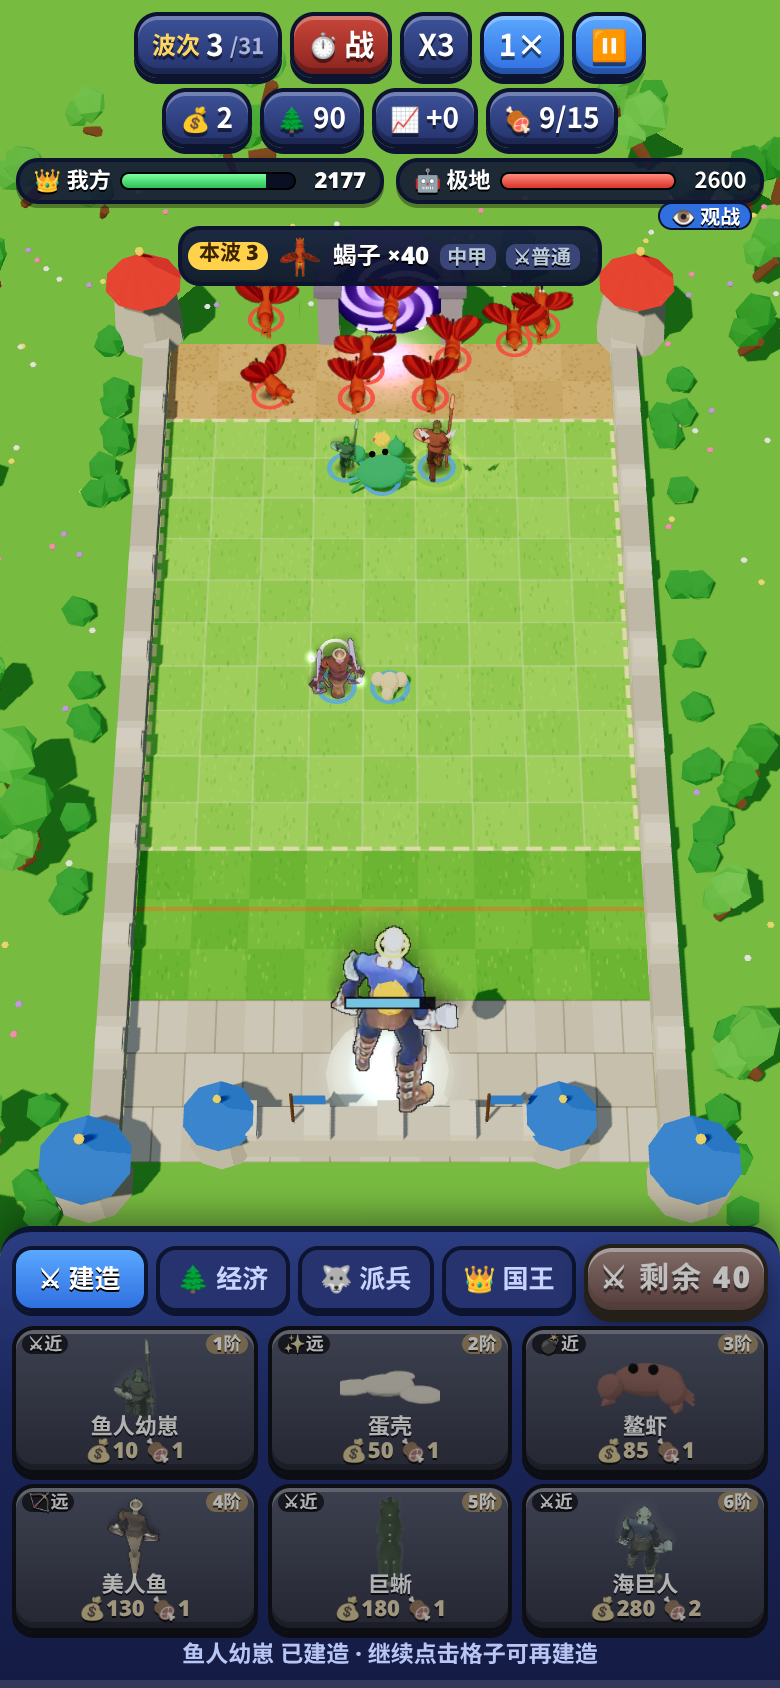
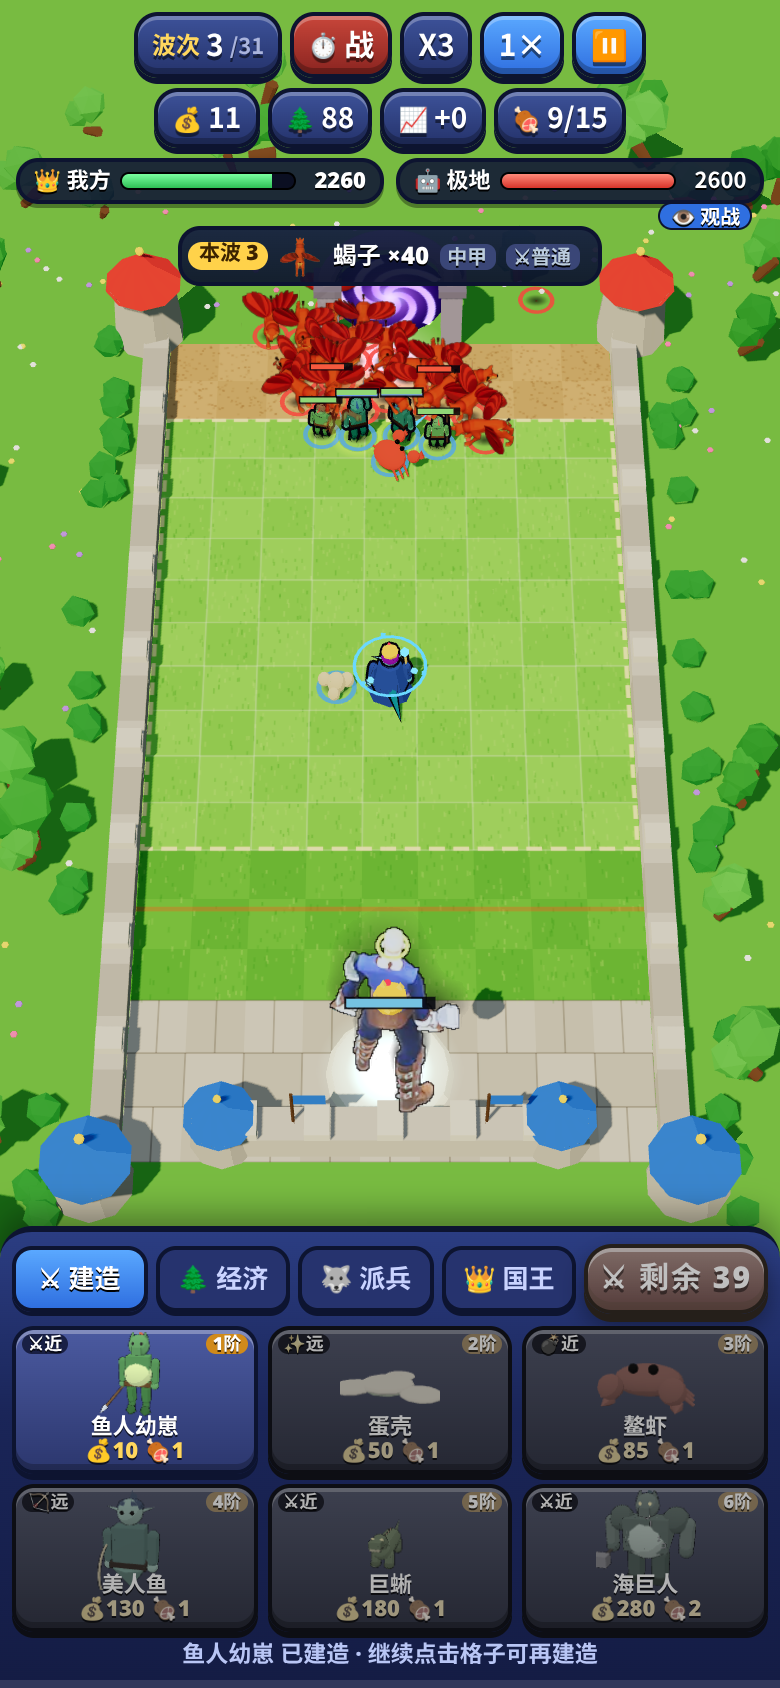
Model remake: Marine (murlocs, wind serpent, naga, komodo, sea giant; egg sack/lobstrokks/hydra keep matching models)

diff --git a/toonrecipes.js b/toonrecipes.js
@@ -113,3 +113,14 @@ R('h01Z',{k:1.1,h:1.08,bw:1.4,torso:'brute',head:'beast',headC:0x4a2a5a,skin:0x5
 R('h020',{k:1.25,ghost:true,h:1.12,bw:1.45,torso:'brute',head:'beast',headC:0x8a4ab8,skin:0x9a5ac8,torsoC:0x6a3a9a,legC:0x5a2a8a,sleeve:0x9a5ac8,handC:0x8a4ab8,legs:'digit',arms:'claw',eye:0xffaaff,atk:'claw',extras:['tentacles:0xb06ad8','spikes:0xff8aff','orbit:0xff8aff']});
 R('h021',{k:1.15,h:1.12,torso:'robe',head:'default',helm:'horns',hornC:0x1a1a1a,skin:0xb06ad8,torsoC:0x3a1a4a,legC:0x3a1a4a,eye:0xff4aff,beard:0x2a1a2a,weapon:'staff',off:'book',bookC:0x2a1a2a,wood:0x2a1a2a,glow:0xd06aff,pads:true,padC:0x5a3a6a,spikes:true,atk:'cast',extras:['tail:0xb06ad8','orbit:0xd06aff','aura:0xb06aff']});
 R('h022',{k:1.15,h:1.2,bw:1.45,torso:'brute',head:'beast',headC:0xb02a1a,helm:'horns',hornC:0x2a1a1a,skin:0xc83a2a,torsoC:0x3a2a2a,legC:0x2a1a1a,sleeve:0xc83a2a,handC:0xa82a1a,legs:'hoof',eye:0xffe04a,metal:0x3a3a3a,weapon:'greatsword',wMetal:0xff6a2a,glow:0xff4a2a,pads:true,padC:0x2a2a2a,spikes:true,atk:'swing',extras:['bwings:0x5a1a1a','tail:0xc83a2a','flamebody','aura:0xff3a2a']});
+// ===================== 海洋 Marine：鱼人、风蛇、娜迦、巨蜥、海巨人（蛋壳/龙虾保留已相符的程序化模型，九头蛇保留相符精灵） =====================
+R('h07J',{k:0.78,h:0.85,bw:1.0,torso:'default',head:'beast',headC:0x6aa86a,skin:0x6aa86a,torsoC:0x5a985a,legC:0x4a884a,bootC:0x3a6a3a,beltC:0x6a4a2a,legs:'digit',eye:0x2a2a2a,weapon:'spear',wood:0x7a5a3a,atk:'thrust',extras:['crest:0xd86a4a','belly:0xd8e8a8']});
+R('h07L',{k:0.92,h:0.95,bw:1.15,torso:'default',head:'beast',headC:0x6a8ab8,skin:0x6a8ab8,torsoC:0x5a7aa8,legC:0x4a6a98,bootC:0x3a4a6a,beltC:0x6a4a2a,legs:'digit',arms:'claw',eye:0xffe04a,atk:'claw',extras:['crest:0xffa02a','belly:0xc8d8f0','spikes:0xffa02a']});
+R('h07N',{k:0.9,h:0.95,torso:'default',head:'beast',headC:0x4a9a8a,skin:0x4a9a8a,torsoC:0x3a7a6a,legC:0x2a6a5a,bootC:0x1a4a3a,beltC:0x3a2a1a,legs:'digit',eye:0xff4a2a,weapon:'blade',off:'blade',wMetal:0xd8e8f0,atk:'swing',extras:['crest:0x2a5a8a','belly:0xb8e0c8']});
+R('h07M',{k:0.98,h:1.0,bw:1.1,torso:'default',head:'beast',headC:0xb84a3a,skin:0xb84a3a,torsoC:0x8a3a2a,legC:0x6a2a1a,bootC:0x4a1a1a,beltC:0x2a1a1a,legs:'digit',eye:0x8aff4a,weapon:'trident',wMetal:0xc8c8c8,glow:0x8aff4a,atk:'thrust',extras:['crest:0x3a1a1a','belly:0xe8b0a0','aura:0x8aff4a']});
+R('h07P',{k:0.95,plan:'flyer',skin:0x3a9a8a,skin2:0xd8e8a0,wingC:0x7ad8c8,wingM:'w',eye:0xffe04a,crest:0xffd04a,neckLen:1.0,headS:0.9,tailLen:0.8,wingSpan:0.9,alt:0.5,atk:'shoot',extras:['spikes:0xffd04a']});
+R('h07S',{k:1.0,h:1.02,legs:'none',floatY:0.22,lowC:0x3aa88a,lowM:'n',torso:'default',head:'default',skin:0x6ac8a8,torsoC:0x2a8a7a,hair:0x2a5aa8,weapon:'bow',wood:0xd8b860,glow:0x8ae8ff,atk:'shoot',extras:['ears:0x6ac8a8','tail:0x3aa88a','crest:0x2a5aa8']});
+R('h07T',{k:1.12,h:1.08,legs:'none',floatY:0.22,lowC:0x2a8a9a,lowM:'n',torso:'robe',head:'default',helm:'crown',accent:0xffd04a,skin:0x5ab8c8,torsoC:0x3a5aa8,hair:0x8a2aa8,weapon:'staff',off:'orb',wood:0xd8b860,glow:0x8ae8ff,atk:'cast',extras:['ears:0x5ab8c8','tail:0x2a8a9a','orbit:0x8ae8ff','aura:0x6ad8ff']});
+R('h07U',{k:1.1,plan:'quad',skin:0x5a8a3a,skin2:0xc8b86a,headType:'lizard',eye:0xffe04a,legLen:0.2,bodyLen:0.75,bodyH:0.24,bw:1.2,tailLen:0.6,tailW:1.6,claws:true,spikes:true,spikeC:0xd87a3a,atk:'bite'});
+R('h07V',{k:1.18,h:1.12,bw:1.3,legs:'none',floatY:0.25,lowC:0x3a7a5a,lowM:'n',torso:'brute',head:'beast',headC:0x4a8a6a,skin:0x4a8a6a,torsoC:0x3a7a5a,sleeve:0x4a8a6a,handC:0x3a7a5a,metal:0xd8b860,eye:0xffe04a,weapon:'trident',wMetal:0xffd04a,pads:true,padC:0xd8b860,atk:'thrust',extras:['tail:0x3a7a5a','crest:0xd86a2a','plate:0xd8b860']});
+R('h07W',{k:1.15,h:1.2,bw:1.5,torso:'brute',head:'beast',headC:0x5a8a7a,skin:0x5a8a7a,torsoC:0x4a7a6a,legC:0x3a6a5a,sleeve:0x5a8a7a,handC:0x4a7a6a,bootC:0x2a4a3a,eye:0xffe04a,weapon:'hammer',wMetal:0x8a8a9a,wood:0x5a4a3a,atk:'slam',extras:['tusks','crest:0x2a6a8a','belly:0x9ac8b0','chains']});

diff --git a/index.html b/index.html
@@ -10,9 +10,9 @@
 <link rel="manifest" href="manifest.webmanifest">
 <link rel="icon" type="image/png" href="icons/favicon-32.png">
 <link rel="apple-touch-icon" href="icons/apple-touch-icon.png">
-<link rel="stylesheet" href="style.css?v=9">
-<link rel="stylesheet" href="td.css?v=9">
-<link rel="stylesheet" href="lt.css?v=9">
+<link rel="stylesheet" href="style.css?v=10">
+<link rel="stylesheet" href="td.css?v=10">
+<link rel="stylesheet" href="lt.css?v=10">
 </head>
 <body class="td lt">
 <canvas id="cv"></canvas>
@@ -75,8 +75,8 @@
 </div>
 <div id="showTitle" class="hidden"></div>
 <script src="audio.js?v=1"></script>
-<script src="lt_core.js?v=9"></script>
+<script src="lt_core.js?v=10"></script>
 <script type="importmap">{"imports":{"three":"./lib/three.module.min.js","three/addons/":"./lib/addons/"}}</script>
-<script type="module" src="lt.js?v=9"></script>
+<script type="module" src="lt.js?v=10"></script>
 </body>
 </html>

diff --git a/lt.js b/lt.js
@@ -3,8 +3,8 @@ import * as THREE from 'three';
 import {SPR_UNITS,SPR_K,SPR_V} from './sprdata.js';
 import {MODELS,modelOf} from './models.js';
 import {ABZ as ABZ_} from './abil_zh.js';
-import {initTK,buildTK,animTK} from './toonkit.js?v=9';
-import {TKR} from './toonrecipes.js?v=9';
+import {initTK,buildTK,animTK} from './toonkit.js?v=10';
+import {TKR} from './toonrecipes.js?v=10';
 const LT=window.LT,S=SFX.S,$=id=>document.getElementById(id);
 const Q=location.search;const DEBUG=/[?&]debug/.test(Q);const SHOWCASE=(Q.match(/[?&]showcase=([^&]+)/)||[])[1];
 const W=LT.W,H=LT.H,W2=W/2,H2=H/2;const B=LT.BUILD;

diff --git a/data/model_audit.md b/data/model_audit.md
@@ -30,7 +30,7 @@
 | Ghost 幽魂 | 14 | 1.93 | 1 | 14 |
 | Demi-Human 亚人 | 13 | 1.69 | 1 | 13 |
 | Hybrid 混血 | 6 | 1.00 | 0 | 0 |
-| Marine 海洋 | 14 | 1.43 | 0 | 0 |
+| Marine 海洋 | 14 | 1.43 | 0 | 10 |
 | Arctic 极地 | 12 | 2.00 | 2 | 12 |
 | Elf 精灵 | 13 | 1.85 | 2 | 13 |
 | Goblin 地精 | 13 | 1.15 | 0 | 0 |
@@ -186,19 +186,19 @@
 
 | id | 兵种 | WC3 模型 | 旧资源 | 旧资源符合度 | 处理 |
 |---|---|---|---|---|---|
-| h07J | Hatchling 鱼人幼崽 | MurgulSlave | 精灵 lizardman | ⚠ 部分不符 | ToonKit 程序化重做（按 WC3 轮廓/配色） |
-| h07L | Swamprunner 沼泽奔行者 | MurlocMutant | 精灵 lizardman | ⚠ 部分不符 | ToonKit 程序化重做（按 WC3 轮廓/配色） |
-| h07N | Fangtooth 尖牙鱼人 | MurgulReaver | 精灵 lizardman | ⚠ 部分不符 | ToonKit 程序化重做（按 WC3 轮廓/配色） |
-| h07M | Defiler 毒牙鱼人 | MurgulBloodGill | 精灵 lizardman | ⚠ 部分不符 | ToonKit 程序化重做（按 WC3 轮廓/配色） |
+| h07J | Hatchling 鱼人幼崽 | MurgulSlave | 精灵 lizardman | ⚠ 部分不符 | **已重做**：ToonKit 程序化卡通模型（humanoid） |
+| h07L | Swamprunner 沼泽奔行者 | MurlocMutant | 精灵 lizardman | ⚠ 部分不符 | **已重做**：ToonKit 程序化卡通模型（humanoid） |
+| h07N | Fangtooth 尖牙鱼人 | MurgulReaver | 精灵 lizardman | ⚠ 部分不符 | **已重做**：ToonKit 程序化卡通模型（humanoid） |
+| h07M | Defiler 毒牙鱼人 | MurgulBloodGill | 精灵 lizardman | ⚠ 部分不符 | **已重做**：ToonKit 程序化卡通模型（humanoid） |
 | h07O | Egg Sack 蛋壳 | EggSack1 | 程序化 egg | ✅ 基本相符 | 保留，后续统一换 ToonKit 时顺带做 |
-| h07P | Sky Dragon 飞蛇 | WindSerpent | 精灵 serpentFly | ✅ 基本相符 | 保留，后续统一换 ToonKit 时顺带做 |
+| h07P | Sky Dragon 飞蛇 | WindSerpent | 精灵 serpentFly | ✅ 基本相符 | **已重做**：ToonKit 程序化卡通模型（flyer） |
 | h07Q | Bottom Feeder 鳌虾 | Lobstrokkred | 程序化 crab | ✅ 基本相符 | 保留，后续统一换 ToonKit 时顺带做 |
 | h07R | King Claw 蟹王 | Lobstrokkgreen | 程序化 crab | ✅ 基本相符 | 保留，后续统一换 ToonKit 时顺带做 |
-| h07S | Mermaid 美人鱼 | NagaSiren | 精灵 naga | ✅ 基本相符 | 保留，后续统一换 ToonKit 时顺带做 |
-| h07T | Highborne 上层精灵 | NagaSummoner | 精灵 naga | ✅ 基本相符 | 保留，后续统一换 ToonKit 时顺带做 |
-| h07U | Komodo 巨蜥 | SnapDragon | 精灵 basilisk | ⚠ 部分不符 | ToonKit 程序化重做（按 WC3 轮廓/配色） |
-| h07V | Trident 三叉戟 | NagaMyrmidon | 精灵 naga | ✅ 基本相符 | 保留，后续统一换 ToonKit 时顺带做 |
-| h07W | Sea Giant 海巨人 | SeaGiantGreen | 精灵 giant | ⚠ 部分不符 | ToonKit 程序化重做（按 WC3 轮廓/配色） |
+| h07S | Mermaid 美人鱼 | NagaSiren | 精灵 naga | ✅ 基本相符 | **已重做**：ToonKit 程序化卡通模型（humanoid） |
+| h07T | Highborne 上层精灵 | NagaSummoner | 精灵 naga | ✅ 基本相符 | **已重做**：ToonKit 程序化卡通模型（humanoid） |
+| h07U | Komodo 巨蜥 | SnapDragon | 精灵 basilisk | ⚠ 部分不符 | **已重做**：ToonKit 程序化卡通模型（quad） |
+| h07V | Trident 三叉戟 | NagaMyrmidon | 精灵 naga | ✅ 基本相符 | **已重做**：ToonKit 程序化卡通模型（humanoid） |
+| h07W | Sea Giant 海巨人 | SeaGiantGreen | 精灵 giant | ⚠ 部分不符 | **已重做**：ToonKit 程序化卡通模型（humanoid） |
 | h07X | Hydra 九头蛇 | Hydra | 精灵 hydra | ✅ 基本相符 | 保留，后续统一换 ToonKit 时顺带做 |
 
 ## Beast 野兽
